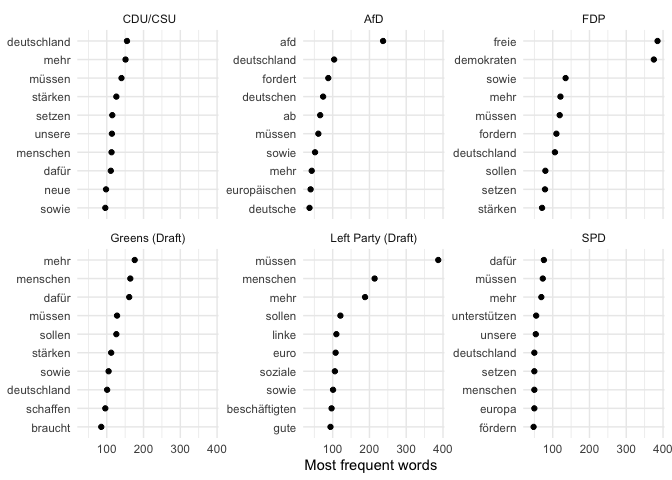
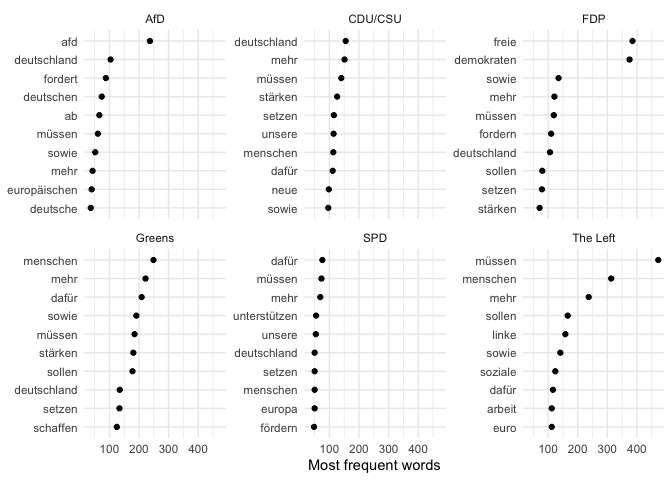
Update man

diff --git a/README.md b/README.md
@@ -3,17 +3,16 @@
 
 Repository containing manifestos of the main parties competing in the
 2021 German federal elections (26 September 2021). The repository
-currently contains the manifesto versions listed below. I will update
-the files when all parties have published their final manifestos.
+currently contains the manifesto versions listed below.
 
-| Party      | Description                                                                                                                                |
-|------------|--------------------------------------------------------------------------------------------------------------------------------------------|
-| AfD        | [Final version (20 May 2021)](https://cdn.afd.tools/wp-content/uploads/sites/111/2021/05/2021-05-20-_-AfD-Bundestagswahlprogramm-2021.pdf) |
-| CDU/CSU    | [Final version (21 June 2021)](https://www.csu.de/common/download/Regierungsprogramm.pdf)                                                  |
-| FDP        | [Final version (16 May 2021)](https://www.fdp.de/sites/default/files/2021-06/FDP_Programm_Bundestagswahl2021_1.pdf)                        |
-| Greens     | [Draft (13 June 2021)](https://cms.gruene.de/uploads/documents/2021_Wahlprogrammentwurf.pdf)                                               |
-| Left Party | [Draft (20 June 2021)](https://www.die-linke.de/fileadmin/download/wahlen2021/BTWP21_Entwurf_Vorsitzende.pdf)                              |
-| SPD        | [Final version (9 May 2021)](https://www.spd.de/fileadmin/Dokumente/Beschluesse/Programm/SPD-Zukunftsprogramm.pdf)                         |
+| Party    | Description                                                                                                                  |
+|----------|------------------------------------------------------------------------------------------------------------------------------|
+| AfD      | [Final version](https://cdn.afd.tools/wp-content/uploads/sites/111/2021/05/2021-05-20-_-AfD-Bundestagswahlprogramm-2021.pdf) |
+| CDU/CSU  | [Final version](https://www.csu.de/common/download/Regierungsprogramm.pdf)                                                   |
+| FDP      | [Final version](https://www.fdp.de/sites/default/files/2021-06/FDP_Programm_Bundestagswahl2021_1.pdf)                        |
+| Greens   | [Final version](https://www.gruene.de/artikel/wahlprogramm-zur-bundestagswahl-2021)                                          |
+| The Left | [Final version](https://www.die-linke.de/fileadmin/download/wahlen2021/BTWP21_Entwurf_Vorsitzende.pdf)                       |
+| SPD      | [Final version](https://www.spd.de/fileadmin/Dokumente/Beschluesse/Programm/SPD-Zukunftsprogramm.pdf)                        |
 
 ## Files
 
@@ -28,7 +27,17 @@ The repository contains the manifestos in the following formats:
     files of the cleaned PDFs
 -   **Corpus**: the file `data_corpus_manifestos_ger2021.rds` contains
     all party manifestos as a [**quanteda**](https://quanteda.io) text
-    corpus
+    corpus. The corpus object also includes meta data on each variables,
+    including the party codes for the [ParlGov](http://www.parlgov.org)
+    and the [Manifesto Project](https://manifesto-project.wzb.eu)
+    datasets.
+
+**Note**: I [manually checked the txt files for
+errors](https://github.com/stefan-mueller/data_manifestos_ger2021/commit/852923fb96c2393689fb1ccbc2ed15312517d67a)
+resulting from hyphenation in the original documents. Yet, the txt files
+may still contain errors. Please check the raw texts carefully before
+you use them for your own research Feel free to push a clean and updated
+file to this repository.
 
 ## Example
 
@@ -45,23 +54,36 @@ library(ggplot2)
 ## Load text corpus
 data_corpus_manifestos_ger2021 <- readRDS("data_corpus_manifestos_ger2021.rds")
 
-## Tokenize corpus and transform to document feature matrix
+## Get summary of corpus
+textstat_summary(data_corpus_manifestos_ger2021)
+```
+
+    ##   document  chars sents tokens types puncts numbers symbols urls tags emojis
+    ## 1      AfD 211352  1576  29101  6987   3194     161       3    0    0      0
+    ## 2  CDU/CSU 347388  2656  49203  8613   6078     188       0    0    0      0
+    ## 3      FDP 290037  2093  39577  7940   4042     113       6    0    0      0
+    ## 4   Greens 543449  3678  76685 12257   8735     205       1    0    0      0
+    ## 5      SPD 186762  1494  26774  5731   3113     110       0    0    0      0
+    ## 6 The Left 551568  4605  79424 12457   9975     445       0    0    1      0
+
+``` r
+## Tokenize corpus and transform to document-feature matrix
 dfmat_man <- data_corpus_manifestos_ger2021 %>% 
   tokens(remove_punct = TRUE, remove_numbers = TRUE) %>% 
   tokens_compound(phrase("* innen")) %>%  # compound *innen
   tokens_remove(pattern = c(stopwords("de"), "dass")) %>% 
-  dfm() 
+  dfm()
 
 
 ## Get most frequent words by party
 tstat_freq <- textstat_frequency(dfmat_man, 
-                                 groups = party, 
+                                 groups = party_name_short, 
                                  n = 10)
 
 ## Plot most frequent words
 ggplot(data = tstat_freq, aes(x = factor(nrow(tstat_freq):1), y = frequency)) +
   geom_point() +
-  facet_wrap(~ group, scales = "free_y") +
+  facet_wrap(~group, scales = "free_y") +
   coord_flip() +
   scale_x_discrete(breaks = nrow(tstat_freq):1,
                    labels = tstat_freq$feature) +
@@ -76,8 +98,8 @@ ggplot(data = tstat_freq, aes(x = factor(nrow(tstat_freq):1), y = frequency)) +
 Feel free to use the manifestos or edited files for your own work.
 Please cite the data as follows:
 
-Stefan Müller 2021. *2021 German federal election manifestos*. Version
-0.1: <https://github.com/stefan-mueller/data_manifestos_ger2021>.
+Stefan Müller. 2021. *2021 German federal election manifestos*. Version
+0.2: <https://github.com/stefan-mueller/data_manifestos_ger2021>.
 
 If you have any questions or suggestions, please file a [GitHub
 issue](https://github.com/stefan-mueller/data_manifestos_ger2021/issues)
